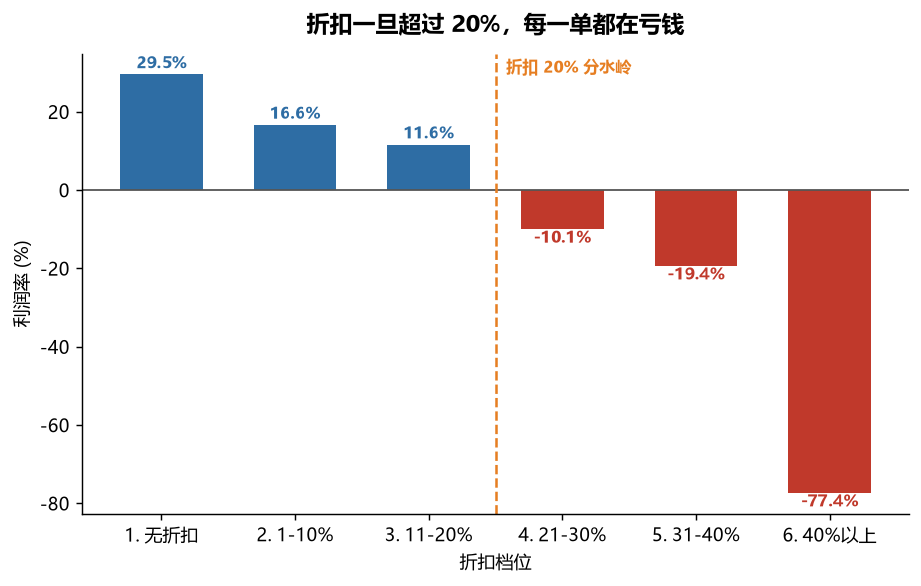
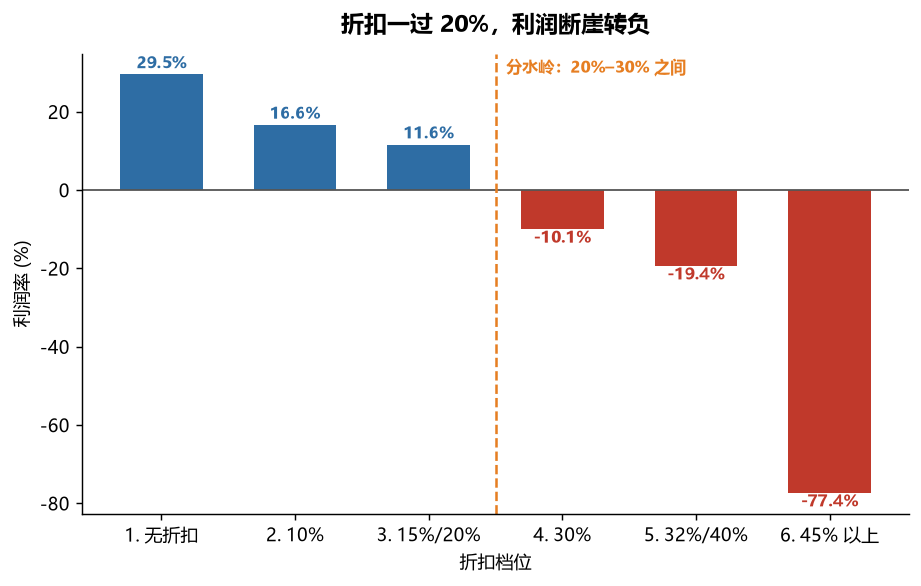
新增州级亏损拆解、阈值敏感性检验与粒度一致性校验
- sql/07: 用条件聚合把各州利润拆成高/低折扣两段，验证'卡折扣'建议在州层面可落地，
  并定位了 Pennsylvania 这类卡折扣也救不回来的州（低折扣段利润率仅 1.34%）
- sql/08: 阈值敏感性检验，发现数据集 20%-30% 区间无任何观测（折扣仅 12 个离散档位），
  阈值取 20% 与 25% 结果完全相同
- 修正结论表述：'20% 是清晰的盈亏分界线' -> '分水岭位于 20%-30% 之间，本数据无法进一步定位'
- 修正 02 查询的分档标签：'21-30%' 等区间标签与实际取值不符，改为真实档位
- quality: 新增第 8 项校验 order_grain_consistency（订单级属性在 order_id 内唯一），
  防止粒度混杂导致的 join 扇出
- 同步更新 findings.md（新增发现 4、稳健性检验、局限 5）与 README

diff --git a/src/quality.py b/src/quality.py
@@ -1,7 +1,7 @@
 """数据质量校验。
 
 面试时如果你只展示"我算出了利润率是 12.47%"，说服力有限。
-如果你能说"我在这张表上跑了 7 项校验，其中 1 项发现了问题，
+如果你能说"我在这张表上跑了 8 项校验，其中 1 项发现了问题，
 我这样处理的"——那是完全不同的层次。
 
 这个模块的每一条校验都对应一类真实的生产事故：
@@ -11,6 +11,8 @@
   * 日期倒挂     -> 时区或格式解析问题
   * 取值越界     -> 单位错误（比如折扣存成了 20 而不是 0.2）
   * 枚举越界     -> 上游新增了未预期的分类值
+  * 粒度不一致   -> 订单级属性在明细表里发生变化，
+                    后续 join 会成倍放大行数，而 SUM 不会报错
 
 用法：
     python -m src.quality
@@ -85,6 +87,25 @@ CHECKS: list[tuple[str, str, str]] = [
         SELECT COUNT(*) FROM staging.stg_orders
         WHERE category NOT IN ('Furniture', 'Office Supplies', 'Technology')
            OR region   NOT IN ('Central', 'East', 'South', 'West')
+        """,
+    ),
+    (
+        "order_grain_consistency",
+        "同一 order_id 内的订单级属性（日期/客户/配送方式/州/区域）应唯一"
+        "——不唯一说明订单表和明细表粒度混了，后续 join 会成倍放大数据",
+        """
+        SELECT COUNT(*) FROM (
+            SELECT order_id
+            FROM staging.stg_orders
+            GROUP BY order_id
+            HAVING COUNT(DISTINCT order_date) > 1
+                OR COUNT(DISTINCT ship_date)  > 1
+                OR COUNT(DISTINCT customer_id) > 1
+                OR COUNT(DISTINCT ship_mode)  > 1
+                OR COUNT(DISTINCT state)      > 1
+                OR COUNT(DISTINCT region)     > 1
+                OR COUNT(DISTINCT segment)    > 1
+        )
         """,
     ),
 ]

diff --git a/src/charts.py b/src/charts.py
@@ -67,12 +67,14 @@ def chart_discount_impact() -> Path:
         )
 
     ax.axhline(0, color="#555555", linewidth=1)
-    # 标出 20% 这条分界线——它是整份分析的核心发现
+    # 标出分水岭。注意写"20%–30% 之间"而不是"20%"：
+    # 数据里 0.20 与 0.30 之间没有任何订单，精确阈值无法从本数据定位
+    # （见 sql/08_threshold_sensitivity.sql 的敏感性检验）。
     ax.axvline(2.5, color=ACCENT, linestyle="--", linewidth=1.4)
-    ax.text(2.58, ax.get_ylim()[1] * 0.86, "折扣 20% 分水岭",
+    ax.text(2.58, ax.get_ylim()[1] * 0.86, "分水岭：20%–30% 之间",
             color=ACCENT, fontsize=9, fontweight="bold")
 
-    ax.set_title("折扣一旦超过 20%，每一单都在亏钱", fontsize=13, fontweight="bold", pad=12)
+    ax.set_title("折扣一过 20%，利润断崖转负", fontsize=13, fontweight="bold", pad=12)
     ax.set_xlabel("折扣档位")
     ax.set_ylabel("利润率 (%)")
     ax.spines[["top", "right"]].set_visible(False)

diff --git a/reports/findings.md b/reports/findings.md
@@ -18,27 +18,58 @@
 
 ---
 
-## 二、三个发现
+## 二、四个发现
 
-### 发现 1：折扣 20% 是一条清晰的盈亏分界线
+### 发现 1：折扣一过 20%，利润断崖转负（分水岭位于 20%–30% 之间）
 
-| 折扣档位 | 订单行 | 销售额 | 利润 | 利润率 | 亏损行占比 |
+| 折扣档位（真实取值） | 订单行 | 销售额 | 利润 | 利润率 | 亏损行占比 |
 |---|---:|---:|---:|---:|---:|
 | 无折扣 | 4,798 | 1,087,908 | 320,988 | **+29.51%** | 0.0% |
-| 1–10% | 94 | 54,369 | 9,029 | +16.61% | 4.3% |
-| 11–20% | 3,709 | 792,153 | 91,756 | +11.58% | 14.0% |
-| 21–30% | 227 | 103,227 | −10,369 | **−10.05%** | 91.6% |
-| 31–40% | 233 | 130,911 | −25,448 | **−19.44%** | 88.8% |
-| 40% 以上 | 933 | 128,632 | −99,559 | **−77.40%** | 100.0% |
+| 10% | 94 | 54,369 | 9,029 | +16.61% | 4.3% |
+| 15% / 20% | 3,709 | 792,153 | 91,756 | +11.58% | 14.0% |
+| 30% | 227 | 103,227 | −10,369 | **−10.05%** | 91.6% |
+| 32% / 40% | 233 | 130,911 | −25,448 | **−19.44%** | 88.8% |
+| 45% 以上 | 933 | 128,632 | −99,559 | **−77.40%** | 100.0% |
+
+> 档位标签按数据里的真实取值写。原稿写的是区间（"21–30%"），
+> 但核对后发现该档 227 行**全部是 30% 这一个值**，标签与内容不符，已改正。
 
 关键不在于"折扣越大利润越低"这个常识，而在于**关系的形状**：
+
 - 折扣 ≤ 20% 时，是"温和让利"——利润率从 29.5% 降到 11.6%，仍在赚钱；
-- 折扣 > 20% 时，是"断崖转负"——21–30% 档 91.6% 的订单行在亏钱，40% 以上档**无一例外全部亏损**。
+- 折扣 > 20% 时，是"断崖转负"——30% 档 91.6% 的订单行在亏钱，45% 以上档**无一例外全部亏损**。
 
 折算成钱：折扣 > 20% 的订单行只占全量的 13.9%（销售额占 15.8%），
 却合计亏掉 **−135,376**；而折扣 ≤ 20% 的部分赚了 **+421,773**。
 
 这不是"定价偏松"，是**亏损性增长**。
+
+#### 稳健性检验：这条分界线到底有多可靠
+
+阈值型结论必然会被问一句"这个数是不是你挑的"，所以我做了敏感性检验
+（见 `sql/08_threshold_sensitivity.sql`）：把阈值从 10% 逐档挪到 35%，每一个阈值都重算一次线上/线下的利润率。
+
+| 阈值 | 线以下利润率 | 线以上利润率 | 线以上合计利润 | 占全年利润 |
+|---:|---:|---:|---:|---:|
+| 10% | 28.89% | −3.78% | −43,620 | −15.2% |
+| 15% | 28.33% | −4.00% | −45,039 | −15.7% |
+| **20%** | 21.80% | **−37.32%** | **−135,376** | **−47.3%** |
+| **25%** | 21.80% | **−37.32%** | **−135,376** | **−47.3%** |
+| 30% | 20.19% | −48.16% | −125,007 | −43.6% |
+| 35% | 19.93% | −50.04% | −122,616 | −42.8% |
+
+**阈值取 20% 和取 25%，六个指标一模一样。** 这不是巧合：
+这份数据的 `discount` 只有 12 个离散档位
+（0 / 0.10 / 0.15 / 0.20 / 0.30 / 0.32 / 0.40 / 0.45 / 0.50 / 0.60 / 0.70 / 0.80），
+**20% 到 30% 之间没有任何订单**——这家公司要么不打折，要么直接打到 30% 以上。
+
+所以严谨的表述是：**盈利与亏损之间的分水岭位于 20% 至 30% 之间，本数据无法把它定位得更精确。**
+而且光靠这份数据，永远回答不了"17% 会怎样"——公司从来没打过 17% 的折。
+要精确定位阈值，只能做价格实验（随机分组给不同折扣档）。
+
+> 这一段修正了原稿的表述。原稿写的是"折扣 20% 是一条清晰的盈亏分界线"，
+> 那是把**区间估计说成了点估计**，属于过度解读。能被自己推翻的结论，
+> 才算真的验证过。
 
 ### 发现 2：三个产品线在出血，Tables 是最大出血点
 
@@ -70,12 +101,40 @@ Central 的销售额排第三（不算小），利润率却垫底。
 
 **把"区域表现差"翻译成"这个区打折最狠"，才能 actionable。**
 
+### 发现 4：下沉到州一级，亏损来源是同一个机制——但有一个州卡折扣也救不回来
+
+区域只有 4 个大区，是管理层划分的**管理单元**；而"卡折扣"这个动作发生在**州**一级。
+所以我做了州级拆解（`sql/07_state_loss_split.sql`）：把每个州的利润拆成
+"折扣 ≤ 20%"（卡折扣后仍保留的部分）和"折扣 > 20%"（建议要砍掉的部分）两段。
+
+10 个净亏损州的结果高度一致：**折扣 ≤ 20% 的部分全部盈利（合计 +31,409），
+净亏损全部来自 > 20% 的部分（合计 −129,655）。**
+
+| 州 | 净利 | 低折扣段利润 | 低折扣段利润率 | 高折扣段利润 |
+|---|---:|---:|---:|---:|
+| Texas | −25,729 | +8,226 | 10.47% | −33,955 |
+| Ohio | −16,971 | +3,256 | 11.31% | −20,227 |
+| Pennsylvania | −15,560 | +580 | **1.34%** | −16,140 |
+| Illinois | −12,608 | +5,829 | 13.68% | −18,437 |
+| 其余 6 州合计 | −27,378 | +13,518 | 6.4% – 11.7% | −40,896 |
+
+这证明了"卡折扣"的建议在州层面普遍成立——问题不是某个州的偶发情况，
+而是**同一个机制在各个州重复发生**。
+
+但要注意 **Pennsylvania**：它的低折扣段利润率只有 1.34%，其他州则在 6.4%–13.7%。
+即便折扣卡到 20%，Pennsylvania 也只是"不再亏"，离全域平均的 12.47% 还差很远。
+这正好和发现 2 接上——折扣是造成亏损的**直接原因**，但**成本/定价结构**是另一个独立问题，
+卡折扣盖不住它。
+
 ---
 
 ## 三、建议（按投入产出比排序）
 
 1. **立即执行**：给折扣审批加一道硬约束——超过 20% 需要上级审批。
-   依据是发现 1 的分界线，而不是拍脑袋的"少打点折"。
+   依据是发现 1 的分水岭与发现 4 的州级验证（10 个亏损州的亏损全部来自 > 20% 那一段），
+   而不是拍脑袋的"少打点折"。
+   *注意：这条线是"20%–30% 之间"的区间结论（见局限 5），执行取 20% 是**偏保守**的选择，
+   不是精确最优解。*
 2. **30 天内**：对 Tables 产品线做一次专项复盘，重新核算进货成本与定价，
    或直接砍掉亏损 SKU。Tables 单独亏 1.77 万，是所有子品类里最集中的出血点。
 3. **持续跟踪**：把"加权折扣率"和"高折扣订单行占比"加进 Central 区的月度经营看板，
@@ -85,7 +144,7 @@ Central 的销售额排第三（不算小），利润率却垫底。
 
 ## 四、已知局限（这一节请保留）
 
-做分析的人必须知道自己的分析在哪儿不成立。这份分析有四个明确的边界：
+做分析的人必须知道自己的分析在哪儿不成立。这份分析有五个明确的边界：
 
 1. **没有成本明细。** 数据里只有 Sales 和 Profit，成本是两者相减推出来的。
    我无法区分"亏损是折扣造成的"还是"进货成本本来就高"。
@@ -97,6 +156,10 @@ Central 的销售额排第三（不算小），利润率却垫底。
 4. **Sales 没有剔除退货。** 数据源里其实附带了一张退货表（800 条退货记录），
    但它只有"是否退货 + 订单号"两列，且我为了控制项目范围没有做退货归因。
    如果把退货计入，部分品类的真实利润率会更低。这是我认为重做时最值得补的一块。
+5. **阈值无法精确定位。** 折扣只出现在 12 个离散档位上，20% 与 30% 之间没有任何观测，
+   所以只能得出"分水岭位于 20%–30% 之间"的**区间**结论，不能确定 20% 就是最优切点。
+   要回答这个问题需要价格实验（随机分组给不同折扣档），
+   而不是继续在这份历史数据上做切片。
 
 ---
 
@@ -107,4 +170,10 @@ pip install -r requirements.txt
 python run_all.py
 ```
 
-全部 SQL 在 `sql/` 目录，逐条可独立执行；数据质量校验在 `src/quality.py`。
+全部 SQL 在 `sql/` 目录（8 条，逐条可独立执行，每条开头都写明它回答的业务问题）；
+数据质量校验在 `src/quality.py`（8 项，失败即中止流水线）。
+
+其中两条是专门用来"检验结论本身"的，值得单独看：
+
+- `sql/07_state_loss_split.sql` —— 把区域结论下沉到州，验证建议是否可落地
+- `sql/08_threshold_sensitivity.sql` —— 阈值敏感性检验，也就是发现 1 里那段自我修正的依据
